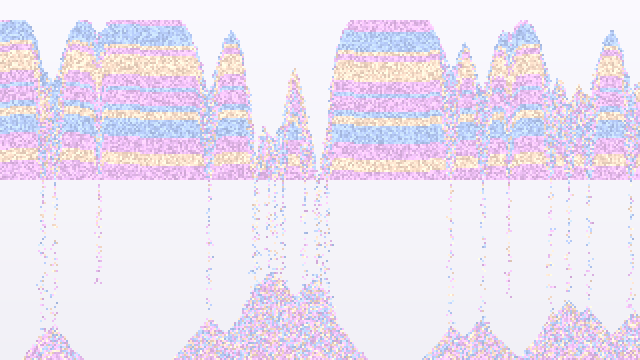
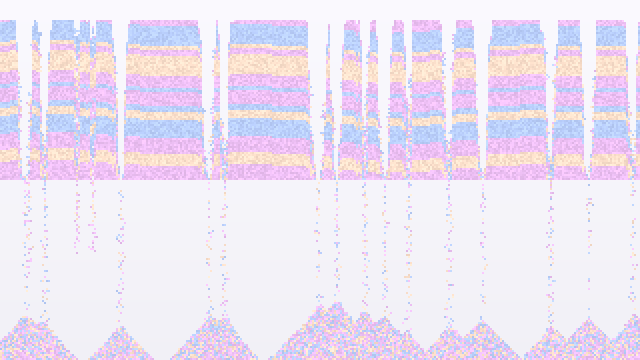
Draft: sand picture with wet sand that hangs and drains in funnels

diff --git a/effects/sand-picture/index.js b/effects/sand-picture/index.js
@@ -59,7 +59,7 @@ const SCENE = {
     const {w, h, values} = env;
     // One cell is a few pixels: the grid is small enough to run every frame.
     const cell = 2, cols = Math.max(8, Math.ceil(w / cell)), rows = Math.max(8, Math.ceil(h / cell));
-    const state = {cell, cols, rows, mid: Math.floor(rows / 2), colour: new Uint8Array(cols * rows), shade: new Uint8Array(cols * rows), random, flip: null, idle: 0, image: new ImageData(cols, rows), canvas: new OffscreenCanvas(cols, rows)};
+    const state = {cell, cols, rows, mid: Math.floor(rows / 2), colour: new Uint8Array(cols * rows), shade: new Uint8Array(cols * rows), moving: new Uint8Array(cols * rows), random, flip: null, idle: 0, image: new ImageData(cols, rows), canvas: new OffscreenCanvas(cols, rows)};
     state.ctx = state.canvas.getContext('2d');
     fill(state, Math.round(values.colours), values.density / 100);
     // Start part way through, so the first frame already holds hills.
@@ -77,7 +77,7 @@ const SCENE = {
     let turn = 0;
     if (state.flip) {
       turn = Math.min(1, (t - state.flip.born) / 1.5);
-      if (turn >= 1) { state.colour.reverse(); state.shade.reverse(); holes(state); state.flip = null; state.idle = 0; turn = 0; }
+      if (turn >= 1) { state.colour.reverse(); state.shade.reverse(); state.moving.fill(0); holes(state); state.flip = null; state.idle = 0; turn = 0; }
     } else {
       for (let i = 0, n = dt > 0 ? 2 : 0; i < n; i += 1) step(state);
       // Once the upper half has run out, wait a little and turn over.
@@ -89,7 +89,7 @@ const SCENE = {
       const liquid = mixc(tones.liquid, tones.deep, y / rows);
       for (let x = 0; x < cols; x += 1) {
         const i = y * cols + x, o = i * 4, c = colour[i];
-        const rgb = c ? sand[c - 1] : liquid, s = c ? 0.86 + shade[i] / 255 * 0.28 : 1;
+        const rgb = c ? sand[c - 1] : liquid, s = c ? 0.93 + shade[i] / 255 * 0.14 : 1;
         data[o] = rgb[0] * s; data[o + 1] = rgb[1] * s; data[o + 2] = rgb[2] * s; data[o + 3] = 255;
       }
     }
@@ -99,11 +99,12 @@ const SCENE = {
     ctx.save();
     ctx.imageSmoothingEnabled = false;
     if (turn > 0) {
-      // While it turns, the picture shrinks so its corners stay inside the area.
-      const a = smooth(turn) * Math.PI, fit = Math.min(1, h / Math.hypot(w * Math.abs(Math.sin(a)) + h * Math.abs(Math.cos(a)), 1) * 1.0);
+      // While it turns, the picture shrinks just enough for its turned box to stay inside the area.
+      const a = smooth(turn) * Math.PI, sin = Math.abs(Math.sin(a)), cos = Math.abs(Math.cos(a));
+      const fit = Math.min(1, h / (w * sin + h * cos), w / (w * cos + h * sin));
       ctx.translate(w / 2, h / 2);
       ctx.rotate(a);
-      ctx.scale(Math.min(1, fit * (w > h ? Math.max(1, Math.abs(Math.cos(a)) * w / h) : 1)), Math.min(1, fit * (w > h ? Math.max(1, Math.abs(Math.cos(a)) * w / h) : 1)));
+      ctx.scale(fit, fit);
       ctx.translate(-w / 2, -h / 2);
     }
     ctx.drawImage(state.canvas, 0, 0, cols * state.cell, rows * state.cell);
@@ -150,28 +151,41 @@ function upper(state) {
 }
 // One step of falling sand, bottom row first, each grain at most one cell: straight down if it can,
 // else down and to one side, so it piles into hills. The middle holds except at the gaps, and a gap
-// now and then widens, so the streams wander.
+// now and then widens, so the streams wander. Above the middle the sand is wet and hangs together:
+// a grain falls only once the grain under it has gone (so shafts drain from below), or now and then
+// drops off the underside as a drip.
 function step(state) {
-  const {cols, rows, mid, colour, shade, gaps, random} = state;
+  const {cols, rows, mid, colour, shade, moving, gaps, random} = state;
   if (random() < 0.02) { const x = Math.floor(random() * cols); gaps[x] = 1; }
-  const move = (from, to) => { colour[to] = colour[from]; shade[to] = shade[from]; colour[from] = 0; };
+  const move = (from, to) => {
+    colour[to] = colour[from]; shade[to] = shade[from]; moving[to] = 1;
+    colour[from] = 0; moving[from] = 0;
+    if (from >= cols && colour[from - cols]) moving[from - cols] = 1;
+  };
   for (let y = rows - 2; y >= 0; y -= 1) {
     const blocked = y === mid - 1;
     const left = (y & 1) === 0;
     for (let n = 0; n < cols; n += 1) {
       const x = left ? n : cols - 1 - n, i = y * cols + x;
       if (!colour[i]) continue;
-      if (blocked && !gaps[x]) continue;
+      if (blocked && !gaps[x]) {
+        // On the middle the sand creeps sideways into an empty neighbour, and so on to a gap.
+        const side = random() < 0.5 ? -1 : 1;
+        if (x + side >= 0 && x + side < cols && !colour[i + side] && random() < 0.3) move(i, i + side); else moving[i] = 0;
+        continue;
+      }
       if (random() < 0.12) continue;
-      const below = i + cols;
+      const below = i + cols, wet = y < mid - 1;
+      if (wet && !moving[i] && random() > 0.0025) continue;
       if (!colour[below]) { move(i, below); continue; }
       const side = random() < 0.5 ? -1 : 1;
       for (const dx of [side, -side]) {
         const nx = x + dx;
         if (nx < 0 || nx >= cols || (blocked && !gaps[nx])) continue;
         // Wet sand above the middle holds together: it slides aside only now and then, so it caves in narrow funnels.
-        if (!colour[below + dx] && random() < (y < mid ? 0.07 : 0.6)) { move(i, below + dx); break; }
+        if (!colour[below + dx] && random() < (y < mid ? 0.25 : 0.6)) { move(i, below + dx); break; }
       }
+      if (colour[i]) moving[i] = 0;
     }
   }
 }
